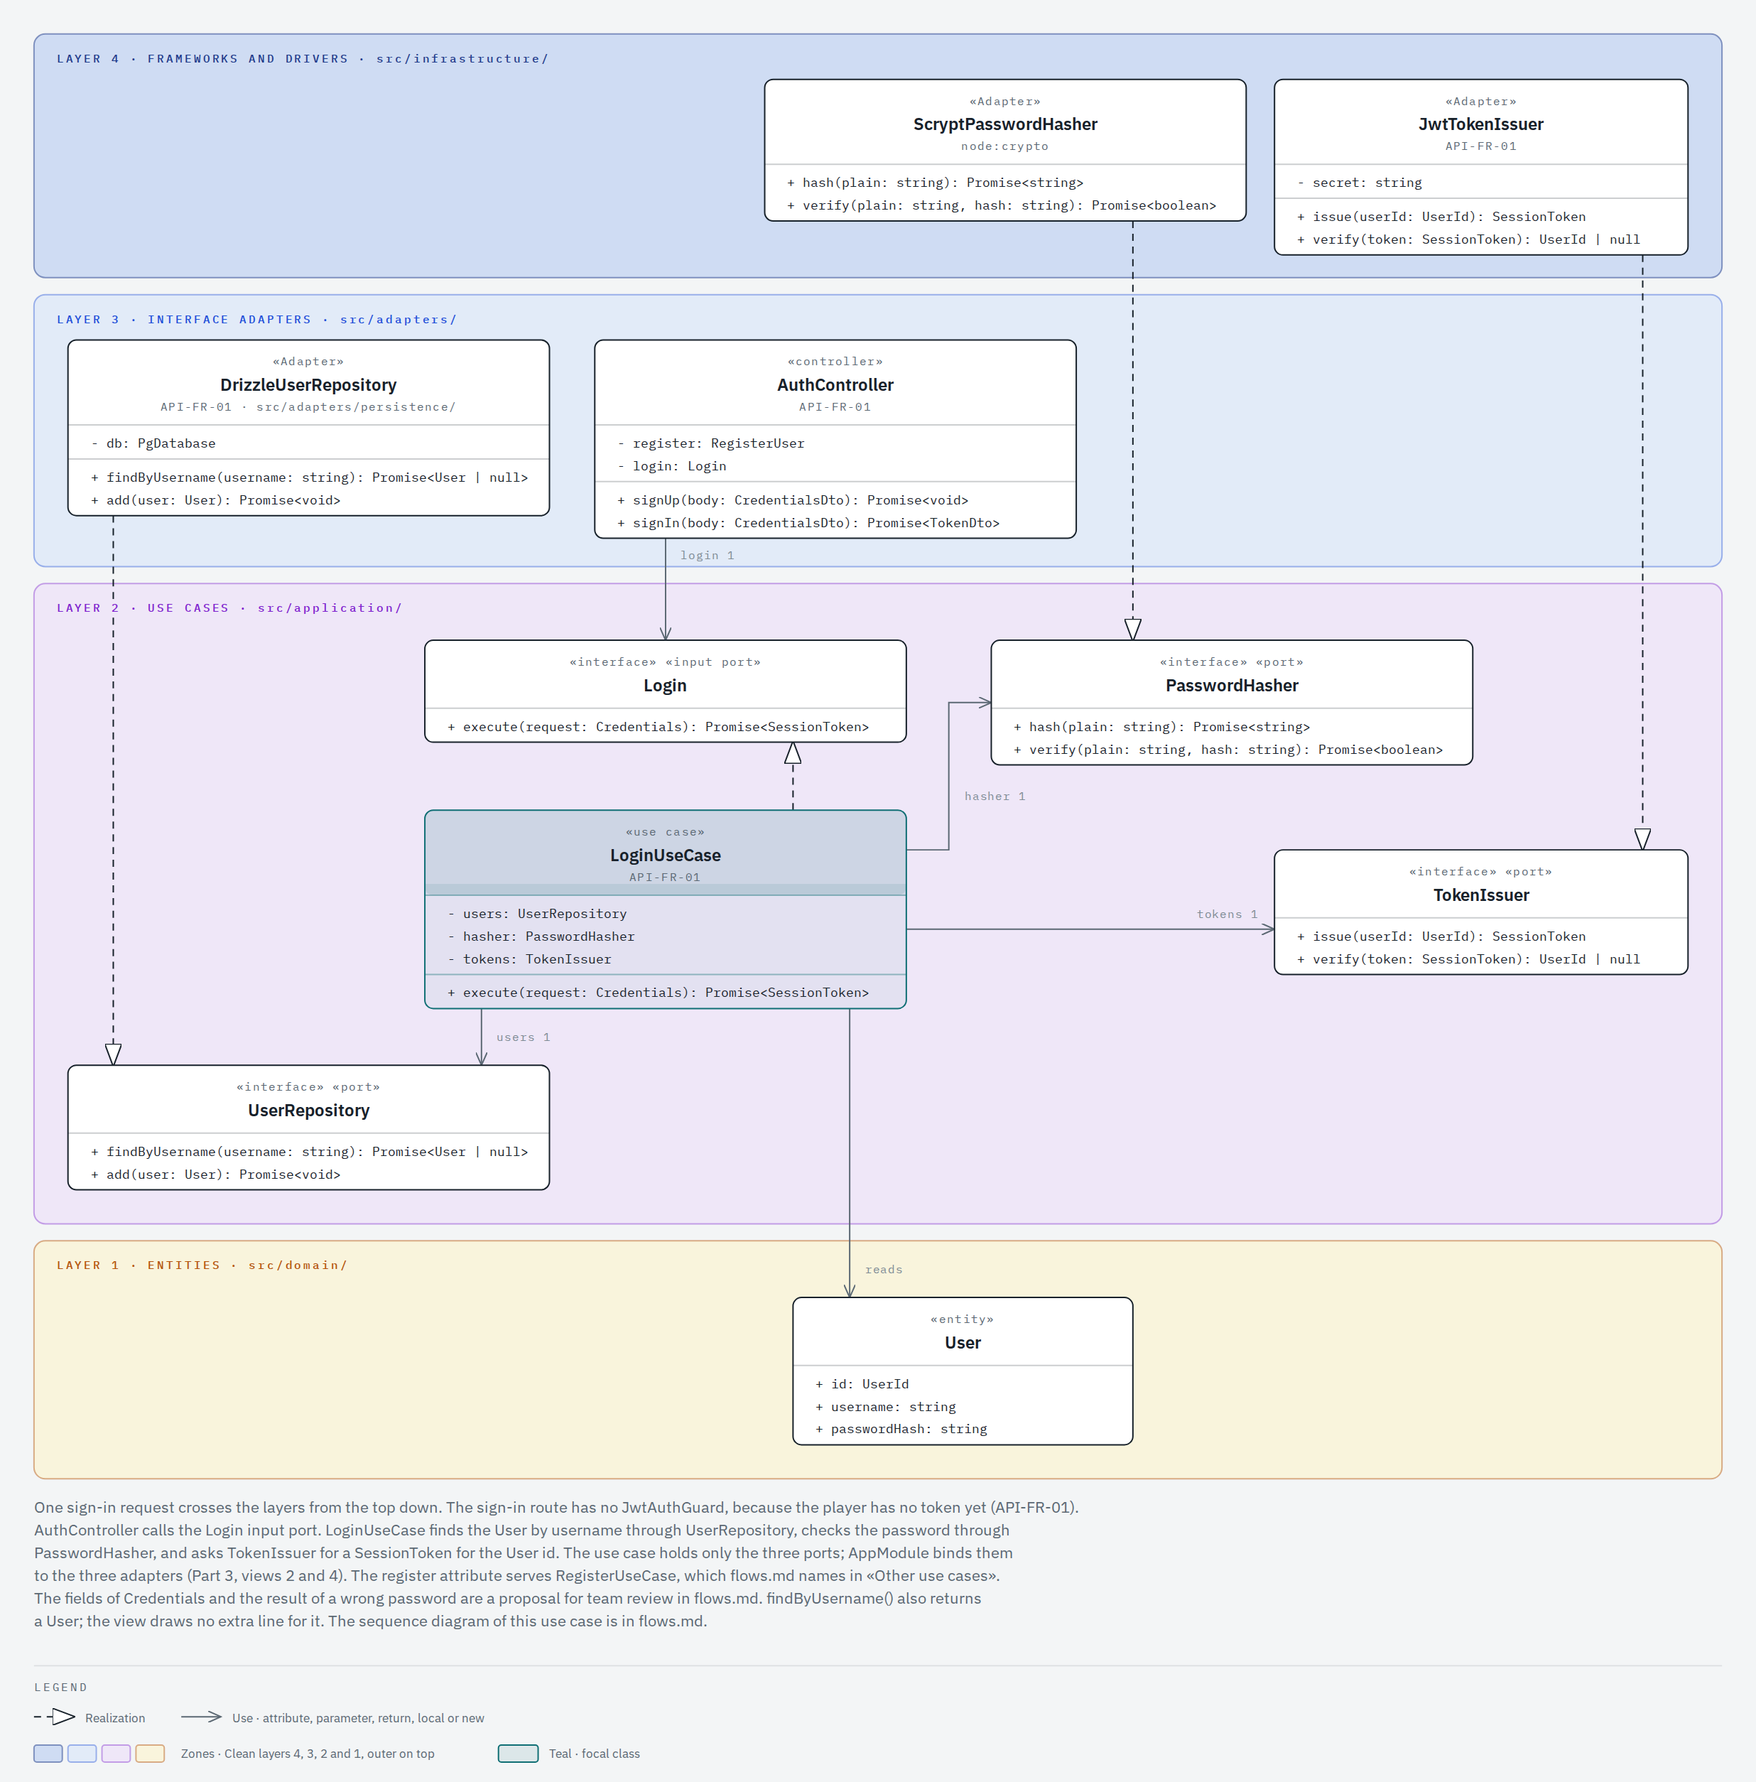
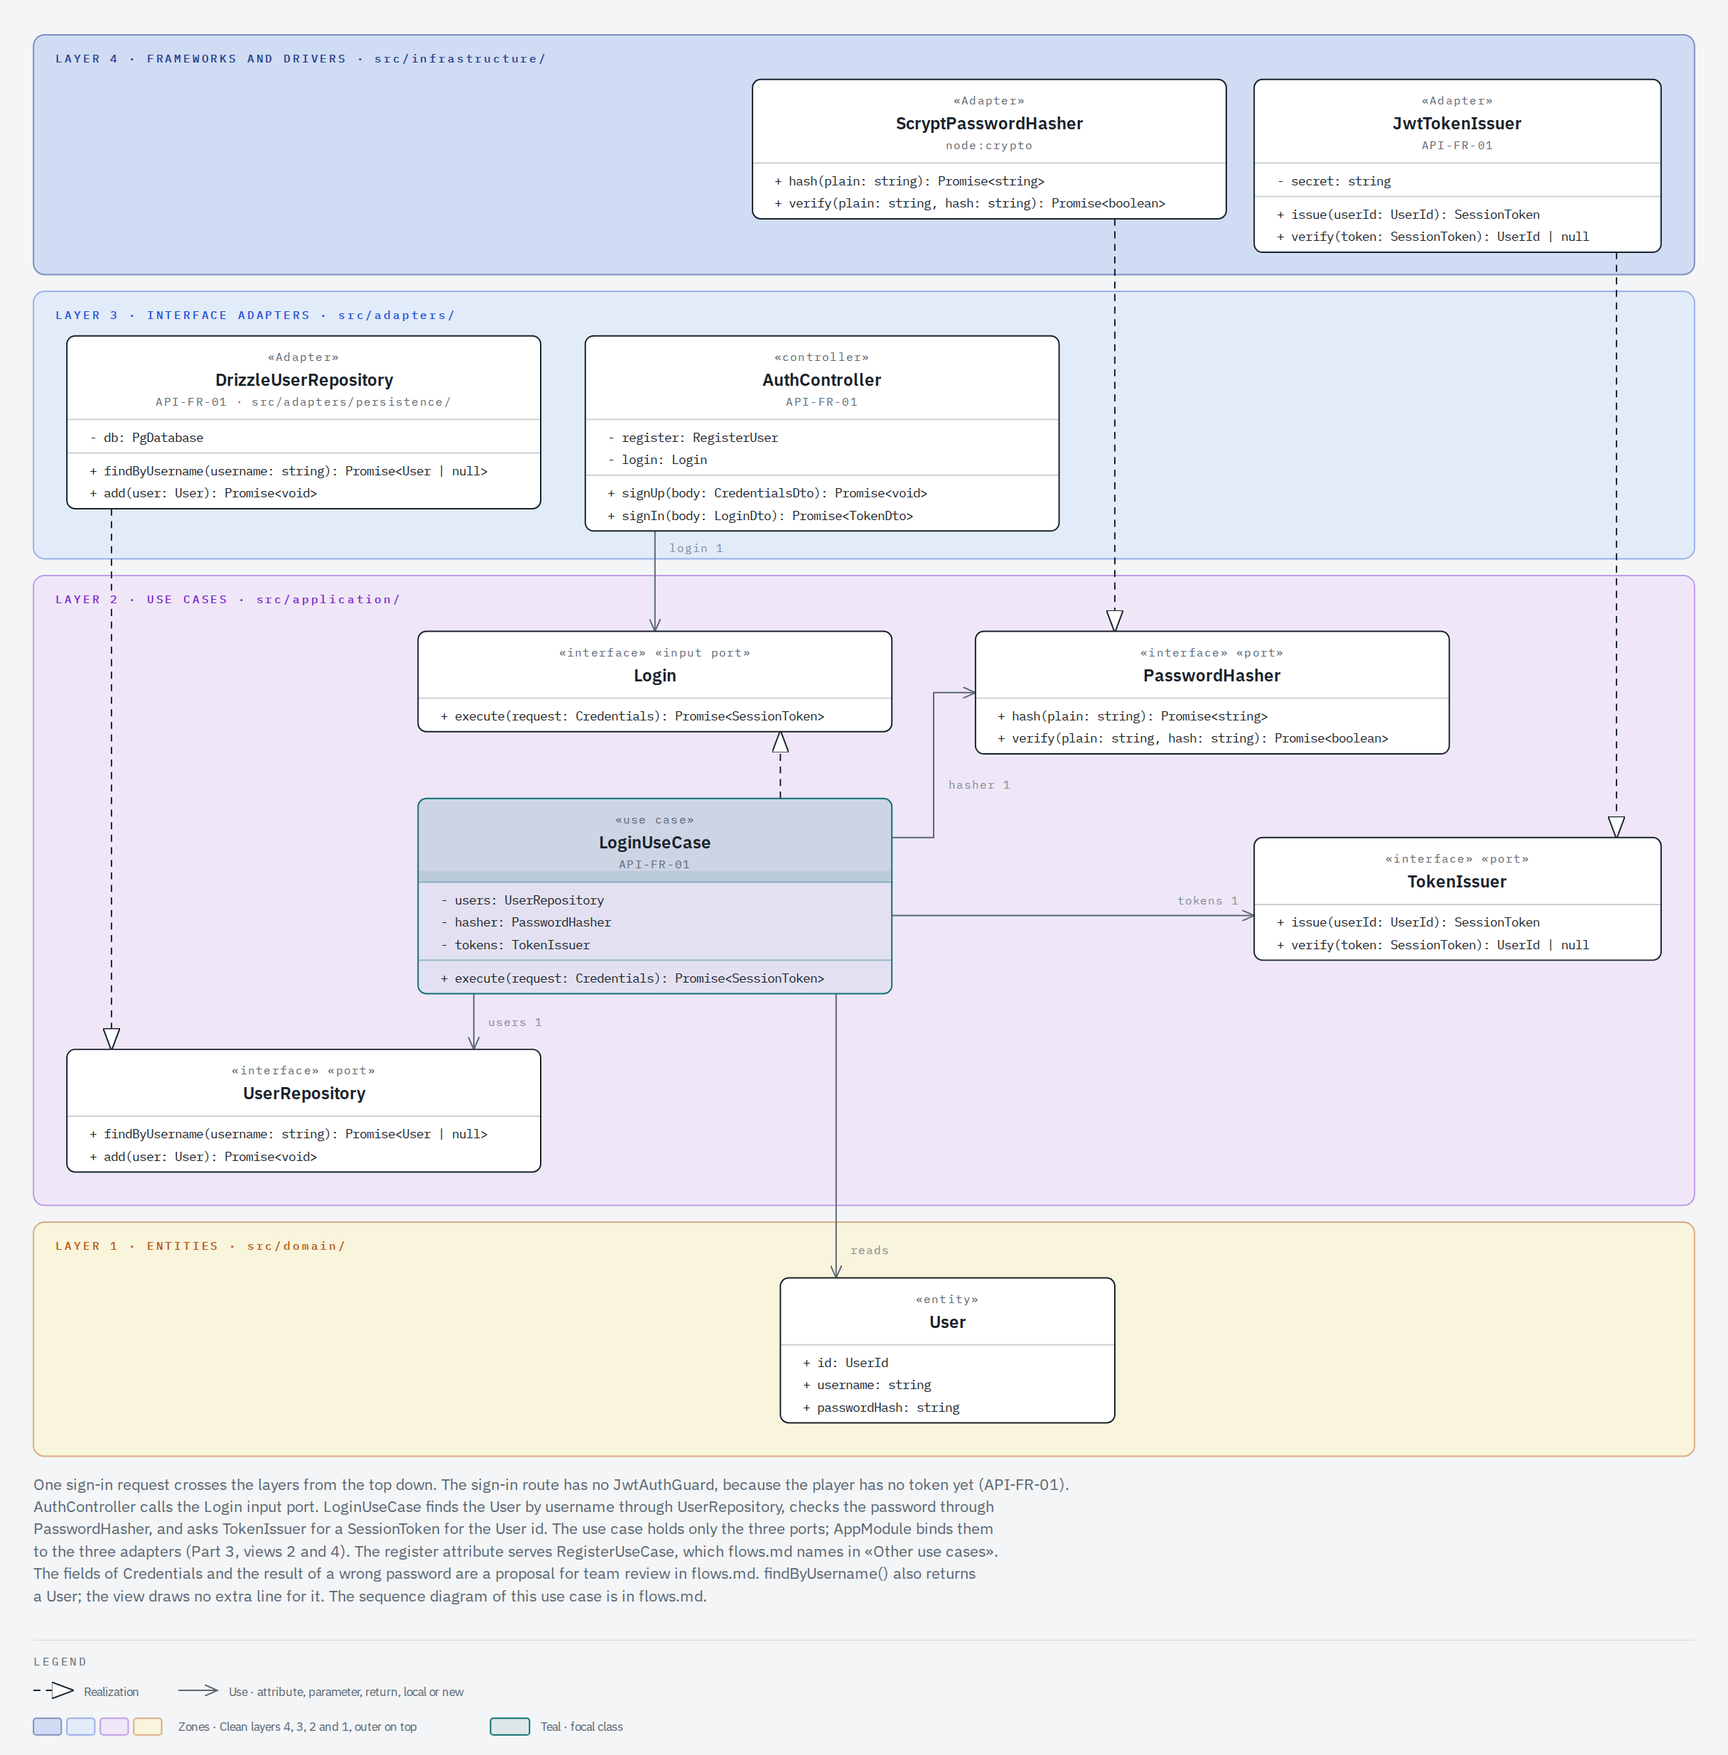
feat(auth): read credential limits from domain ranges in code points
USERNAME_LENGTH and PASSWORD_LENGTH are the one source for the value
objects, the register messages and CredentialsDto. The password length
counts Unicode code points. Login rejects a password over the maximum
before the hash check, with the same 401, and takes LoginDto without
length rules in OpenAPI.

Closes #60

diff --git a/test/auth.e2e-spec.ts b/test/auth.e2e-spec.ts
@@ -71,6 +71,24 @@ describe('auth endpoints (API-FR-01)', () => {
     expect(await testApp.database.db.select().from(users)).toHaveLength(0);
   });
 
+  // Four emoji are 8 UTF-16 units but 4 code points (#60).
+  it('should_return_validation_error_body_when_password_has_four_emoji', async () => {
+    const response = await post('/auth/register', {
+      username: USERNAME,
+      password: '\u{1F600}'.repeat(4),
+    });
+
+    expect(response.status).toBe(400);
+    expect(response.body).toEqual({
+      statusCode: 400,
+      error: 'Bad Request',
+      message: 'Request validation failed',
+      details: ['password must have 8 to 128 characters'],
+      path: '/auth/register',
+    });
+    expect(await testApp.database.db.select().from(users)).toHaveLength(0);
+  });
+
   it('should_return_validation_error_body_when_credentials_are_missing', async () => {
     const response = await post('/auth/register', { username: 7 });
 
@@ -124,6 +142,45 @@ describe('auth endpoints (API-FR-01)', () => {
       message: 'Invalid username or password',
       details: [],
       path: '/auth/login',
+    });
+  });
+
+  it('should_return_unauthorized_error_body_when_login_password_has_more_than_128_characters', async () => {
+    await post('/auth/register', { username: USERNAME, password: PASSWORD });
+
+    const response = await post('/auth/login', { username: USERNAME, password: 'x'.repeat(129) });
+
+    expect(response.status).toBe(401);
+    expect(response.body).toEqual({
+      statusCode: 401,
+      error: 'Unauthorized',
+      message: 'Invalid username or password',
+      details: [],
+      path: '/auth/login',
+    });
+  });
+
+  // Login answers 401, never 400, so its schema publishes no length rule (#60).
+  it('should_publish_login_body_without_length_rules_when_openapi_document_is_requested', async () => {
+    const response = await request(testApp.app.getHttpServer()).get('/docs-json');
+
+    const { paths, components } = response.body;
+    const bodyOf = (path: string) => paths[path].post.requestBody.content['application/json'];
+    expect(bodyOf('/auth/login').schema).toEqual({ $ref: '#/components/schemas/LoginDto' });
+    expect(bodyOf('/auth/register').schema).toEqual({
+      $ref: '#/components/schemas/CredentialsDto',
+    });
+    const login = components.schemas.LoginDto;
+    expect(login.required).toEqual(['username', 'password']);
+    for (const property of Object.values<object>(login.properties)) {
+      expect(property).toMatchObject({ type: 'string' });
+      expect(property).not.toHaveProperty('minLength');
+      expect(property).not.toHaveProperty('maxLength');
+      expect(property).not.toHaveProperty('pattern');
+    }
+    expect(components.schemas.CredentialsDto.properties).toMatchObject({
+      username: { minLength: 3, maxLength: 32, pattern: '^[A-Za-z0-9._-]{3,32}$' },
+      password: { minLength: 8, maxLength: 128 },
     });
   });
 

diff --git a/test/unit/domain/user-values.spec.ts b/test/unit/domain/user-values.spec.ts
@@ -1,7 +1,17 @@
-import { Password } from '../../../src/domain/user/password.js';
+import { PASSWORD_LENGTH, Password } from '../../../src/domain/user/password.js';
 import { PasswordHash } from '../../../src/domain/user/password-hash.js';
 import { UserId } from '../../../src/domain/user/user-id.js';
-import { Username } from '../../../src/domain/user/username.js';
+import { USERNAME_LENGTH, Username } from '../../../src/domain/user/username.js';
+
+// One code point, two UTF-16 units.
+const EMOJI = '\u{1F600}';
+
+describe('credential limits', () => {
+  it('should_export_username_and_password_ranges_when_domain_sets_the_limits', () => {
+    expect([USERNAME_LENGTH.min, USERNAME_LENGTH.max]).toEqual([3, 32]);
+    expect([PASSWORD_LENGTH.min, PASSWORD_LENGTH.max]).toEqual([8, 128]);
+  });
+});
 
 describe('Username', () => {
   it('should_accept_username_when_it_has_3_to_32_allowed_characters', () => {
@@ -31,6 +41,21 @@ describe('Password', () => {
   it('should_reject_password_when_it_has_fewer_than_8_or_more_than_128_characters', () => {
     for (const raw of ['', '1234567', 'x'.repeat(129)]) {
       expect(Password.create(raw)).toEqual({ ok: false, error: 'invalid-password' });
+    }
+  });
+
+  // The length counts code points, not UTF-16 units (#60).
+  it('should_reject_password_when_it_has_fewer_than_8_or_more_than_128_code_points', () => {
+    for (const raw of [EMOJI.repeat(4), EMOJI.repeat(129)]) {
+      expect(Password.create(raw)).toEqual({ ok: false, error: 'invalid-password' });
+    }
+  });
+
+  it('should_accept_password_when_it_has_8_to_128_code_points_in_more_utf16_units', () => {
+    for (const raw of [EMOJI.repeat(8), EMOJI.repeat(128)]) {
+      const result = Password.create(raw);
+
+      expect(result.ok && result.value.value).toBe(raw);
     }
   });
 });

diff --git a/src/adapters/http/auth.controller.ts b/src/adapters/http/auth.controller.ts
@@ -24,15 +24,18 @@ import {
 import type { CredentialField, Credentials } from '../../application/auth/credentials.js';
 import { LOGIN, type Login } from '../../application/auth/login.use-case.js';
 import { REGISTER_USER, type RegisterUser } from '../../application/auth/register.use-case.js';
+import { PASSWORD_LENGTH } from '../../domain/user/password.js';
+import { USERNAME_LENGTH } from '../../domain/user/username.js';
 import { CredentialsDto } from './credentials.dto.js';
 import { CurrentUserDto } from './current-user.dto.js';
 import { ErrorDto } from './error.dto.js';
 import { type AuthenticatedRequest, JwtAuthGuard } from './jwt-auth.guard.js';
+import { LoginDto } from './login.dto.js';
 import { TokenDto } from './token.dto.js';
 
 const RULES: Record<CredentialField, string> = {
-  username: 'username must have 3 to 32 characters: letters, digits, dots, hyphens or underscores',
-  password: 'password must have 8 to 128 characters',
+  username: `username must have ${USERNAME_LENGTH.min} to ${USERNAME_LENGTH.max} characters: letters, digits, dots, hyphens or underscores`,
+  password: `password must have ${PASSWORD_LENGTH.min} to ${PASSWORD_LENGTH.max} characters`,
 };
 
 // Sign-up, sign-in and the signed-in user (API-FR-01). Sign-up and sign-in
@@ -70,7 +73,7 @@ export class AuthController {
     type: ErrorDto,
     description: 'The username or the password is wrong.',
   })
-  async signIn(@Body() body: CredentialsDto): Promise<TokenDto> {
+  async signIn(@Body() body: LoginDto): Promise<TokenDto> {
     const result = await this.login.execute(credentialsFrom(body));
     if (!result.ok) {
       throw new UnauthorizedException('Invalid username or password');

diff --git a/test/unit/application/login.use-case.spec.ts b/test/unit/application/login.use-case.spec.ts
@@ -8,6 +8,9 @@ import {
   SequenceUserIdGenerator,
 } from '../../support/auth/fakes.js';
 
+// One code point, two UTF-16 units.
+const EMOJI = '\u{1F600}';
+
 describe('LoginUseCase', () => {
   let login: LoginUseCase;
   let hasher: PrefixPasswordHasher;
@@ -91,6 +94,30 @@ describe('LoginUseCase', () => {
     } finally {
       process.off('unhandledRejection', record);
     }
+  });
+
+  // The maximum bounds the hash work of one request (#60).
+  it('should_fail_with_invalid_credentials_without_hashing_when_password_has_more_than_128_characters', async () => {
+    const verify = vi.spyOn(hasher, 'verify');
+    const hash = vi.spyOn(hasher, 'hash');
+
+    for (const password of ['x'.repeat(129), EMOJI.repeat(129)]) {
+      const result = await login.execute({ username: 'ada', password });
+
+      expect(result).toEqual({ ok: false, error: 'invalid-credentials' });
+    }
+    expect(verify).not.toHaveBeenCalled();
+    expect(hash).not.toHaveBeenCalled();
+  });
+
+  it('should_verify_password_when_it_has_128_code_points', async () => {
+    const verify = vi.spyOn(hasher, 'verify');
+
+    for (const password of ['x'.repeat(128), EMOJI.repeat(128)]) {
+      await login.execute({ username: 'ada', password });
+    }
+
+    expect(verify).toHaveBeenCalledTimes(2);
   });
 
   it('should_verify_password_once_when_password_is_wrong', async () => {

diff --git a/src/domain/user/password.ts b/src/domain/user/password.ts
@@ -1,18 +1,26 @@
+import { Range } from '../shared/range.js';
 import { err, ok, type Result } from '../shared/result.js';
 
-// The upper limit keeps the hash work of one request bounded. Both limits
-// are a proposal for team review: API-FR-01 sets no rule.
-const MIN_LENGTH = 8;
-const MAX_LENGTH = 128;
+// The length of a password in code points. The upper limit keeps the hash
+// work of one request bounded. Both limits are a proposal for team review:
+// API-FR-01 sets no rule.
+export const PASSWORD_LENGTH = Range.ofNumbers(8, 128);
 
 export type PasswordProblem = 'invalid-password';
+
+// Counts Unicode code points, not UTF-16 units: an emoji is one character
+// (NIST SP 800-63B §5.1.1.2). Array.from gives the same code points as
+// [...raw]. The lint rule no-misused-spread forbids the spread of a string.
+export function passwordLength(raw: string): number {
+  return Array.from(raw).length;
+}
 
 // A plain password that a new user chooses. Only the hash is stored.
 export class Password {
   private constructor(readonly value: string) {}
 
   static create(raw: string): Result<Password, PasswordProblem> {
-    return raw.length >= MIN_LENGTH && raw.length <= MAX_LENGTH
+    return PASSWORD_LENGTH.contains(passwordLength(raw))
       ? ok(new Password(raw))
       : err('invalid-password');
   }

diff --git a/src/domain/user/username.ts b/src/domain/user/username.ts
@@ -1,8 +1,15 @@
+import { Range } from '../shared/range.js';
 import { err, ok, type Result } from '../shared/result.js';
 
 // 3 to 32 letters, digits, dots, hyphens or underscores. A proposal for
 // team review: API-FR-01 sets no rule.
-const USERNAME_RULE = /^[A-Za-z0-9._-]{3,32}$/;
+export const USERNAME_LENGTH = Range.ofNumbers(3, 32);
+
+const ALLOWED_CHARACTERS = 'A-Za-z0-9._-';
+const ONLY_ALLOWED_CHARACTERS = new RegExp(`^[${ALLOWED_CHARACTERS}]*$`);
+
+// The same rule as one pattern, for the OpenAPI schema of the request body.
+export const USERNAME_PATTERN = `^[${ALLOWED_CHARACTERS}]{${USERNAME_LENGTH.min},${USERNAME_LENGTH.max}}$`;
 
 export type UsernameProblem = 'invalid-username';
 
@@ -10,7 +17,11 @@ export type UsernameProblem = 'invalid-username';
 export class Username {
   private constructor(readonly value: string) {}
 
+  // Every allowed character is ASCII, so the UTF-16 length of an accepted
+  // name equals its code point count.
   static create(raw: string): Result<Username, UsernameProblem> {
-    return USERNAME_RULE.test(raw) ? ok(new Username(raw)) : err('invalid-username');
+    return ONLY_ALLOWED_CHARACTERS.test(raw) && USERNAME_LENGTH.contains(raw.length)
+      ? ok(new Username(raw))
+      : err('invalid-username');
   }
 }

diff --git a/src/adapters/http/credentials.dto.ts b/src/adapters/http/credentials.dto.ts
@@ -1,16 +1,23 @@
 import { ApiProperty } from '@nestjs/swagger';
+import { PASSWORD_LENGTH } from '../../domain/user/password.js';
+import { USERNAME_LENGTH, USERNAME_PATTERN } from '../../domain/user/username.js';
 
-// The body of POST /auth/register and POST /auth/login (API-FR-01).
+// The body of POST /auth/register (API-FR-01). The limits come from the
+// domain, so OpenAPI publishes the rules that Username and Password check.
 export class CredentialsDto {
   @ApiProperty({
     example: 'ada',
-    minLength: 3,
-    maxLength: 32,
-    pattern: '^[A-Za-z0-9._-]{3,32}$',
+    minLength: USERNAME_LENGTH.min,
+    maxLength: USERNAME_LENGTH.max,
+    pattern: USERNAME_PATTERN,
     description: 'Letters, digits, dots, hyphens or underscores.',
   })
   readonly username!: string;
 
-  @ApiProperty({ example: 'correct horse battery', minLength: 8, maxLength: 128 })
+  @ApiProperty({
+    example: 'correct horse battery',
+    minLength: PASSWORD_LENGTH.min,
+    maxLength: PASSWORD_LENGTH.max,
+  })
   readonly password!: string;
 }

diff --git a/src/application/auth/login.use-case.ts b/src/application/auth/login.use-case.ts
@@ -1,4 +1,5 @@
 import { err, ok, type Result } from '../../domain/shared/result.js';
+import { PASSWORD_LENGTH, passwordLength } from '../../domain/user/password.js';
 import { Username } from '../../domain/user/username.js';
 import type { PasswordHasher } from '../ports/password-hasher.js';
 import type { SessionToken, TokenIssuer } from '../ports/token-issuer.js';
@@ -37,6 +38,11 @@ export class LoginUseCase implements Login {
   }
 
   async execute(request: Credentials): Promise<Result<SessionToken, LoginProblem>> {
+    // No stored password is longer than the maximum. This check bounds the
+    // hash work of one request and gives the same failure as a wrong password.
+    if (passwordLength(request.password) > PASSWORD_LENGTH.max) {
+      return err('invalid-credentials');
+    }
     const username = Username.create(request.username);
     const user = username.ok ? await this.users.findByUsername(username.value) : null;
     const hash = user === null ? await this.dummyHash : user.passwordHash.value;

diff --git a/docs/architecture/flows/views/seq-2-login.html b/docs/architecture/flows/views/seq-2-login.html
@@ -533,7 +533,7 @@
           [verify() returns false]
         </text>
         <!-- Messages, top to bottom -->
-        <!-- Message: HTTP request · CredentialsDto, no token -->
+        <!-- Message: HTTP request · LoginDto, no token -->
         <line
           x1="24"
           y1="160"
@@ -543,7 +543,7 @@
           stroke-width="1"
           marker-end="url(#seq2login-filled)"
         />
-        <rect x="36" y="145" width="201" height="12" rx="2" fill="#f3f5f6" />
+        <rect x="50.5" y="145" width="172" height="12" rx="2" fill="#f3f5f6" />
         <text
           x="136.5"
           y="154"
@@ -552,7 +552,7 @@
           font-family="'IBM Plex Mono', monospace"
           text-anchor="middle"
         >
-          HTTP request · CredentialsDto, no token
+          HTTP request · LoginDto, no token
         </text>
         <text x="36" y="176" fill="#5b6873" font-size="8" font-family="'IBM Plex Mono', monospace">
           Nest calls signIn(body); no guard

diff --git a/docs/architecture/classes/views/ad-3-http.html b/docs/architecture/classes/views/ad-3-http.html
@@ -232,7 +232,7 @@
           + signUp(body: CredentialsDto): Promise&lt;void&gt;
         </text>
         <text x="56" y="220" fill="#17212a" font-size="9" font-family="'IBM Plex Mono', monospace">
-          + signIn(body: CredentialsDto): Promise&lt;TokenDto&gt;
+          + signIn(body: LoginDto): Promise&lt;TokenDto&gt;
         </text>
         <!-- Class: ProgressController (focal, «controller») -->
         <rect

diff --git a/docs/architecture/classes/views/flow-2-login.html b/docs/architecture/classes/views/flow-2-login.html
@@ -555,7 +555,7 @@
           + signUp(body: CredentialsDto): Promise&lt;void&gt;
         </text>
         <text x="436" y="372" fill="#17212a" font-size="9" font-family="'IBM Plex Mono', monospace">
-          + signIn(body: CredentialsDto): Promise&lt;TokenDto&gt;
+          + signIn(body: LoginDto): Promise&lt;TokenDto&gt;
         </text>
         <!-- Class: Login («interface» «input port») -->
         <rect

diff --git a/src/adapters/http/login.dto.ts b/src/adapters/http/login.dto.ts
@@ -1,0 +1,11 @@
+import { ApiProperty } from '@nestjs/swagger';
+
+// The body of POST /auth/login (API-FR-01). It has no length rules: a
+// credential that breaks a rule gets the same 401 as a wrong password.
+export class LoginDto {
+  @ApiProperty({ example: 'ada' })
+  readonly username!: string;
+
+  @ApiProperty({ example: 'correct horse battery' })
+  readonly password!: string;
+}
